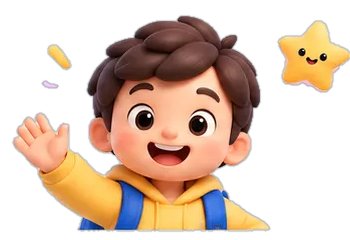
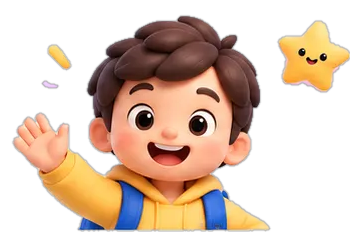
fix(ui): Align mascot bottom flush with white wave sheet to eliminate gap

diff --git a/lib/features/auth/presentation/widgets/register_header.dart b/lib/features/auth/presentation/widgets/register_header.dart
@@ -13,9 +13,11 @@ class RegisterHeader extends StatelessWidget {
   @override
   Widget build(BuildContext context) {
     return Padding(
-      padding: const EdgeInsets.symmetric(
-        horizontal: AppValues.space7,
-        vertical: AppValues.space4,
+      padding: const EdgeInsets.fromLTRB(
+        AppValues.space7,
+        AppValues.space4,
+        AppValues.space7,
+        0,
       ),
       child: Column(
         children: [
@@ -96,11 +98,15 @@ class RegisterHeader extends StatelessWidget {
           const SizedBox(height: AppValues.space4),
 
           // 3D Mascot Boy with Book & Fist Pump
-          SizedBox(
-            height: AppValues.sizeLoginHeroMascotH,
-            child: Image.asset(
-              'assets/images/mascot_boy_register.png',
-              fit: BoxFit.contain,
+          Transform.translate(
+            offset: const Offset(0, AppValues.space5),
+            child: SizedBox(
+              height: AppValues.sizeLoginHeroMascotH,
+              child: Image.asset(
+                'assets/images/mascot_boy_register.png',
+                fit: BoxFit.contain,
+                alignment: Alignment.bottomCenter,
+              ),
             ),
           ),
         ],

diff --git a/lib/features/auth/presentation/widgets/login_header.dart b/lib/features/auth/presentation/widgets/login_header.dart
@@ -13,9 +13,11 @@ class LoginHeader extends StatelessWidget {
   @override
   Widget build(BuildContext context) {
     return Padding(
-      padding: const EdgeInsets.symmetric(
-        horizontal: AppValues.space7,
-        vertical: AppValues.space4,
+      padding: const EdgeInsets.fromLTRB(
+        AppValues.space7,
+        AppValues.space4,
+        AppValues.space7,
+        0,
       ),
       child: Column(
         children: [
@@ -99,11 +101,15 @@ class LoginHeader extends StatelessWidget {
           const SizedBox(height: AppValues.space4),
 
           // 3D Mascot Boy Waving + Star
-          SizedBox(
-            height: AppValues.sizeLoginHeroMascotH,
-            child: Image.asset(
-              'assets/images/login_hero_mascot.png',
-              fit: BoxFit.contain,
+          Transform.translate(
+            offset: const Offset(0, AppValues.space5),
+            child: SizedBox(
+              height: AppValues.sizeLoginHeroMascotH,
+              child: Image.asset(
+                'assets/images/login_hero_mascot.png',
+                fit: BoxFit.contain,
+                alignment: Alignment.bottomCenter,
+              ),
             ),
           ),
         ],
